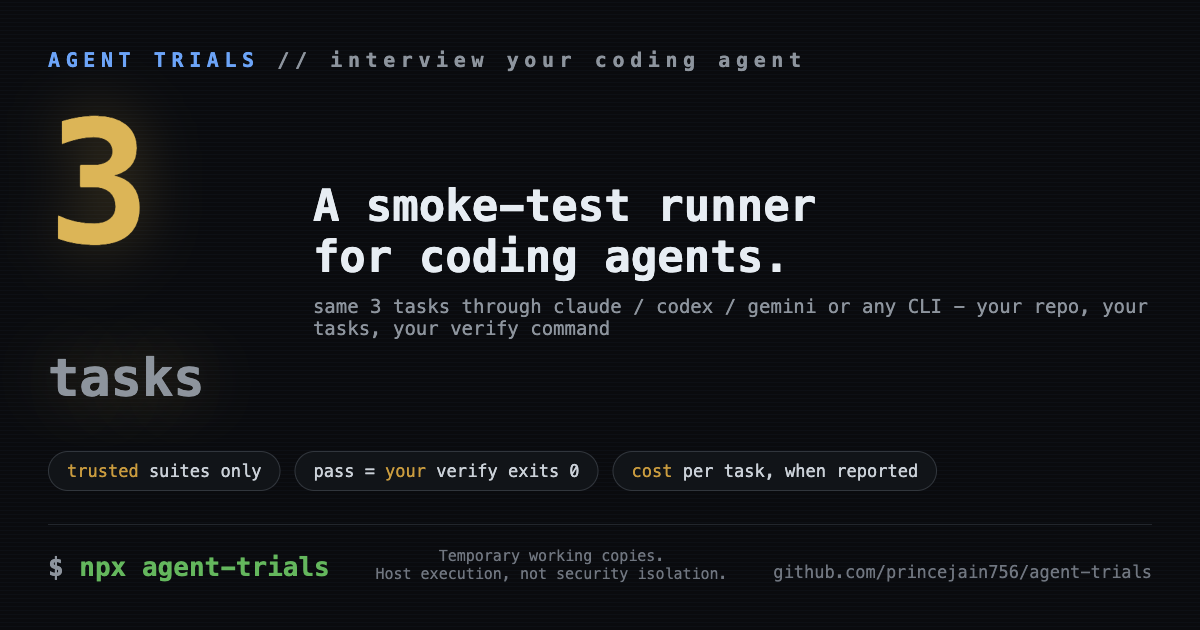
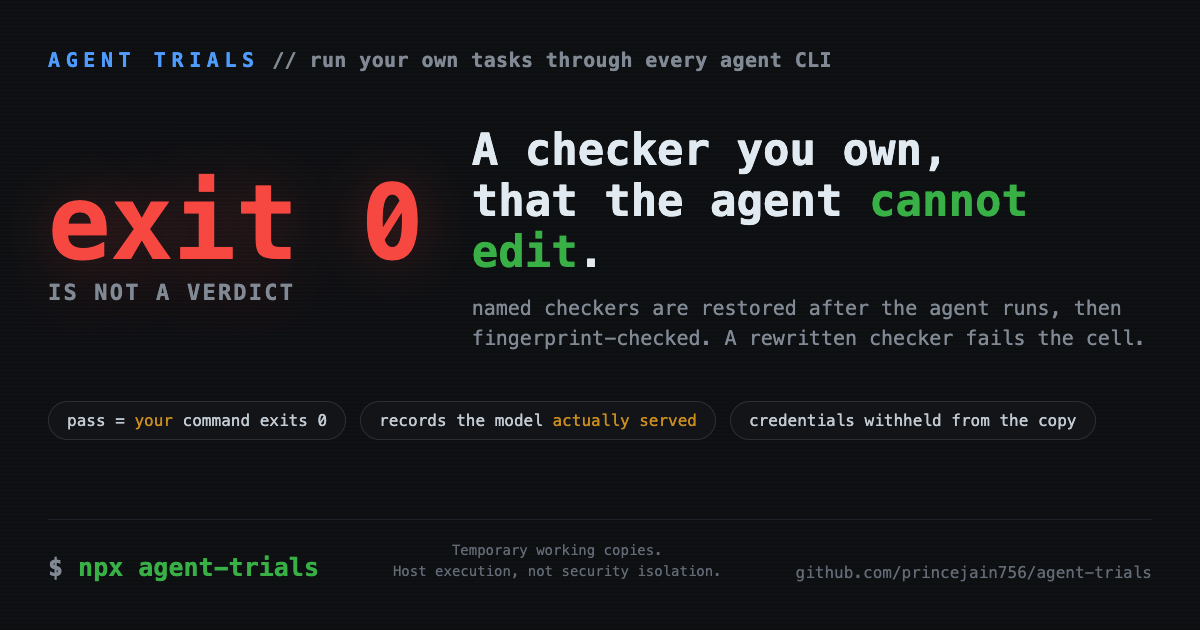
Replace the promo visuals with ones the tool can still stand behind
The old demo and social card showed the cost-inversion board, where the column
labeled "haiku" went 3/3 while spending the most. That column was served
claude-sonnet-4-6, so the picture was advertising a comparison against a model
that never ran.

The terminal card now shows a real captured run plus the served-model warning,
which is the part of the tool I would actually point at. The social card leads
with what the verify step does: a checker you own that the agent cannot edit.
Both are rendered from their HTML sources at exact size, so the numbers match
LEADERBOARD.md.

Also adds hero.png, one generated illustration for the top of the README: a
green passing terminal next to a red rejected checker, no text.

diff --git a/social-card.html b/social-card.html
@@ -9,40 +9,41 @@
     background:repeating-linear-gradient(0deg,transparent 0 3px,rgba(88,166,255,.03) 3px 4px); }
   .frame { position:absolute; inset:48px; display:flex; flex-direction:column; }
   .brand { font-size:20px; letter-spacing:.28em; color:#58a6ff; font-weight:600; }
-  .brand em { font-style:normal; color:#8b949e; }
-  .mid { display:flex; align-items:center; gap:52px; margin:36px 0 30px; }
-  .grade { font-size:170px; font-weight:800; color:#e3b341; line-height:.9;
-    text-shadow:0 0 60px rgba(227,179,65,.3); }
-  .grade small { font-size:52px; color:#8b949e; font-weight:700; }
-  .block .big { font-size:44px; font-weight:700; line-height:1.15; }
-  .block .big b { color:#f85149; }
-  .block .sub { margin-top:14px; font-size:19px; color:#8b949e; }
+  .brand em { font-style:normal; color:#8b949e; text-transform:none; letter-spacing:.02em; }
+  .mid { display:flex; align-items:center; gap:48px; margin:52px 0 40px; }
+  .grade { font-size:104px; font-weight:800; color:#f85149; line-height:.95;
+    text-shadow:0 0 60px rgba(248,81,73,.28); flex-shrink:0; }
+  .grade small { display:block; font-size:22px; color:#8b949e; font-weight:700;
+    letter-spacing:.1em; margin-top:10px; }
+  .block .big { font-size:44px; font-weight:700; line-height:1.16; }
+  .block .big b { color:#3fb950; }
+  .block .sub { margin-top:16px; font-size:20px; color:#8b949e; line-height:1.5; }
   .findings { display:flex; gap:14px; margin-top:8px; }
   .chip { border:1px solid #30363d; border-radius:999px; padding:9px 18px;
-    font-size:17px; color:#c9d1d9; background:#111418; }
+    font-size:16px; color:#c9d1d9; background:#111418; }
   .chip i { font-style:normal; color:#d29922; }
   .foot { margin-top:auto; display:flex; justify-content:space-between; align-items:flex-end;
-    border-top:1px solid #21262d; padding-top:22px; }
-  .cmd { font-size:26px; color:#3fb950; font-weight:700; }
+    border-top:1px solid #21262d; padding-top:20px; }
+  .cmd { font-size:25px; color:#3fb950; font-weight:700; }
   .cmd::before { content:"$ "; color:#8b949e; }
-  .note { font-size:15px; color:#6e7681; text-align:center; }
-  .gh { font-size:17px; color:#6e7681; }
+  .note { font-size:14px; color:#6e7681; text-align:center; line-height:1.5; }
+  .gh { font-size:16px; color:#6e7681; }
 </style>
 <body>
 <div class="scan"></div>
 <div class="frame">
-  <div class="brand">AGENT&nbsp;TRIALS<em> // interview your coding agent</em></div>
+  <div class="brand">AGENT&nbsp;TRIALS<em> // run your own tasks through every agent CLI</em></div>
   <div class="mid">
-    <div class="grade">3<small> tasks</small></div>
+    <div class="grade">exit 0<small>IS NOT A VERDICT</small></div>
     <div class="block">
-      <div class="big">A smoke-test runner<br>for coding agents.</div>
-      <div class="sub">same 3 tasks through claude / codex / gemini or any CLI - your repo, your tasks, your verify command</div>
+      <div class="big">A checker you own,<br>that the agent <b>cannot edit</b>.</div>
+      <div class="sub">named checkers are restored after the agent runs, then fingerprint-checked. A rewritten checker fails the cell.</div>
     </div>
   </div>
   <div class="findings">
-    <div class="chip"><i>trusted</i> suites only</div>
-    <div class="chip">pass = <i>your</i> verify exits 0</div>
-    <div class="chip"><i>cost</i> per task, when reported</div>
+    <div class="chip">pass = <i>your</i> command exits 0</div>
+    <div class="chip">records the model <i>actually served</i></div>
+    <div class="chip">credentials withheld from the copy</div>
   </div>
   <div class="foot">
     <div class="cmd">npx agent-trials</div>
@@ -51,3 +52,4 @@
   </div>
 </div>
 </body>
+</html>

diff --git a/demo.html b/demo.html
@@ -4,16 +4,17 @@
 <meta charset="utf-8">
 <style>
   body { margin: 0; background: #0b0e14; display: flex; align-items: center; justify-content: center; min-height: 100vh; font-family: "SF Mono", Menlo, monospace; }
-  .term { width: 980px; margin: 40px; border-radius: 12px; overflow: hidden; box-shadow: 0 30px 80px rgba(0,0,0,.6); background: #0d1117; border: 1px solid #21262d; }
+  .term { width: 1010px; margin: 40px; border-radius: 12px; overflow: hidden; box-shadow: 0 30px 80px rgba(0,0,0,.6); background: #0d1117; border: 1px solid #21262d; }
   .bar { display: flex; gap: 8px; padding: 14px 16px; background: #161b22; border-bottom: 1px solid #21262d; align-items: center; }
   .dot { width: 12px; height: 12px; border-radius: 50%; }
   .r { background: #ff5f57; } .y { background: #febc2e; } .g { background: #28c840; }
   .title { margin-left: 12px; color: #7d8590; font-size: 13px; }
-  pre { margin: 0; padding: 28px 32px 34px; font-size: 16.5px; line-height: 1.62; color: #c9d1d9; }
+  pre { margin: 0; padding: 26px 32px 32px; font-size: 15.5px; line-height: 1.58; color: #c9d1d9; }
   .p { color: #79c0ff; } .dim { color: #7d8590; }
   .big { color: #e3b341; font-weight: 700; }
   .pass { color: #3fb950; } .fail { color: #f85149; }
   .flag { color: #ffa198; }
+  .warn { color: #d29922; }
 </style>
 </head>
 <body>
@@ -23,18 +24,24 @@
 
 <span class="dim">agent-trials · 3 tasks · 3 agents</span>
 
-                  opus      sonnet       haiku
-fix-clamp    <span class="pass">pass 141.3s</span>  <span class="pass">pass 44.2s</span>   <span class="pass">pass 60.9s</span>
-divide-guard <span class="fail">fail 96.1s</span>   <span class="pass">pass 72.1s</span>  <span class="pass">pass 118.6s</span>
-slug-test    <span class="pass">pass 253.4s</span>  <span class="fail">fail 124.4s</span>   <span class="pass">pass 50s</span>
+                      opus      sonnet       haiku
+fix-clamp         <span class="pass">pass 42s</span>  <span class="pass">pass 35.6s</span>  <span class="pass">pass 44.1s</span>
+divide-guard      <span class="pass">pass 39s</span>  <span class="pass">pass 30.9s</span>  <span class="pass">pass 34.7s</span>
+slug-test       <span class="fail">fail 25.9s</span>  <span class="pass">pass 63.1s</span>    <span class="pass">pass 38s</span>
 
-score              2/3         2/3           <span class="big">3/3</span>
-median          141.3s       72.1s         60.9s
-cost             $1.11       $1.10         <span class="flag">$2.06</span>
+score                  2/3         3/3         3/3
+median                 39s       35.6s         38s
+cost                 $2.20       $0.93       $1.74
 
-<span class="dim">One toy-suite run; requested aliases, not verified model identities.</span>
+models actually served:
+  opus -> claude-opus-5-5
+  sonnet -> claude-sonnet-5-5
+  haiku -> <span class="warn">claude-sonnet-4-6</span>
 
-<span class="dim">CLI-reported costs; no general model ranking.</span>
+  <span class="warn">note: the column "haiku" was served claude-sonnet-4-6.</span>
+  <span class="warn">An agent name is not a model.</span>
+
+<span class="dim">Re-runs flip cells. A smoke test, not a ranking.</span>
 
 <span class="p">$</span> <span class="dim">|</span></pre>
 </div>

diff --git a/README.md b/README.md
@@ -1,10 +1,10 @@
 # agent-trials
 
+![agent-trials: a checker you own, that the agent cannot edit](hero.png)
+
 Interview your coding agent before you ship with it.
 
 `agent-trials` runs the same task suite through every coding agent CLI you have installed and prints a scoreboard: who passed, how long they took, what they spent. Each task gets a temporary working copy. Commands still run on your host.
-
-![demo](demo.png)
 
 ## why
 
@@ -87,6 +87,8 @@ The `--unsafe` gate is not limited to the builtins. Any agent whose argv contain
 ## a real run
 
 `examples/tinylib` is a 3-function library with planted bugs. Same 3 tasks, 3 model variants of the same agent CLI (`claude --model`):
+
+![a real agent-trials run, including the served-model warning](demo.png)
 
 ```
 agent-trials · 3 tasks · 3 agents
